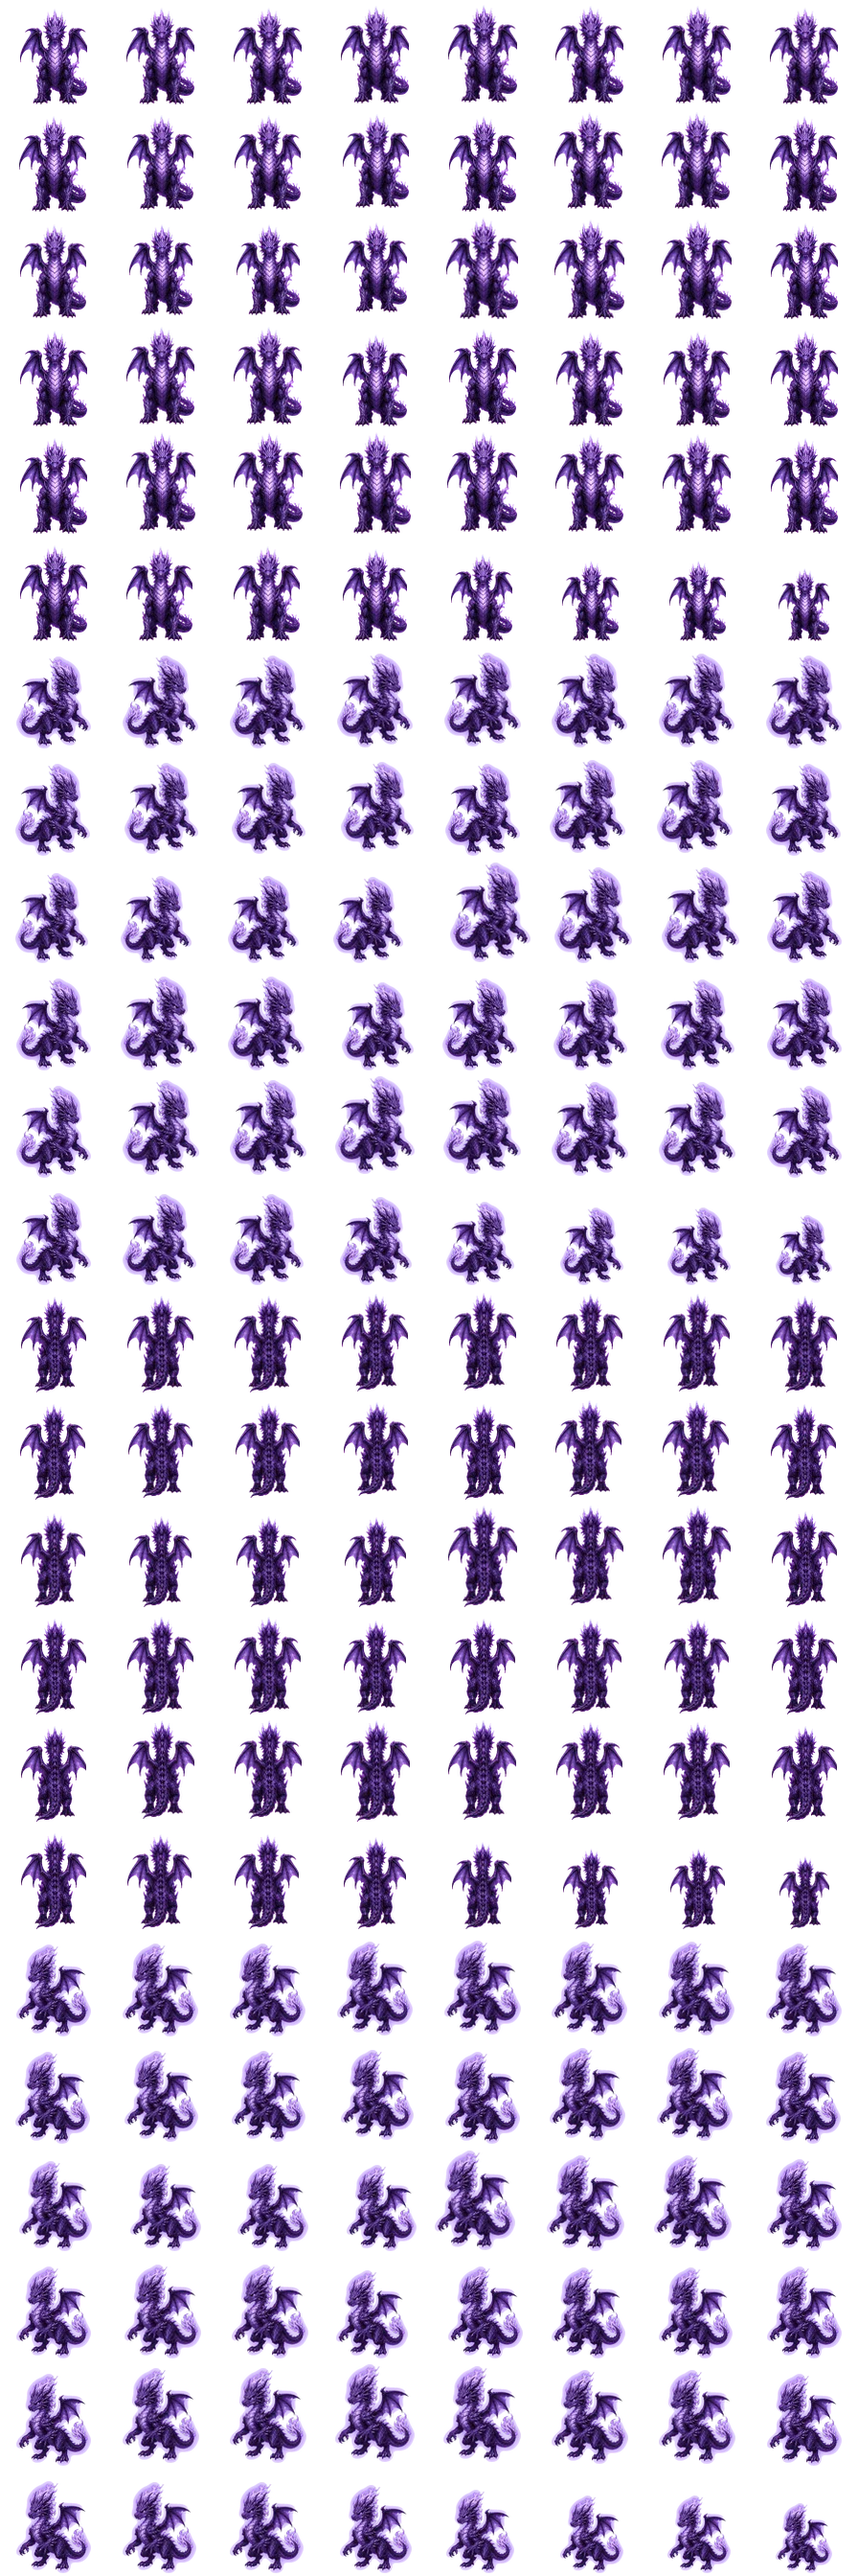
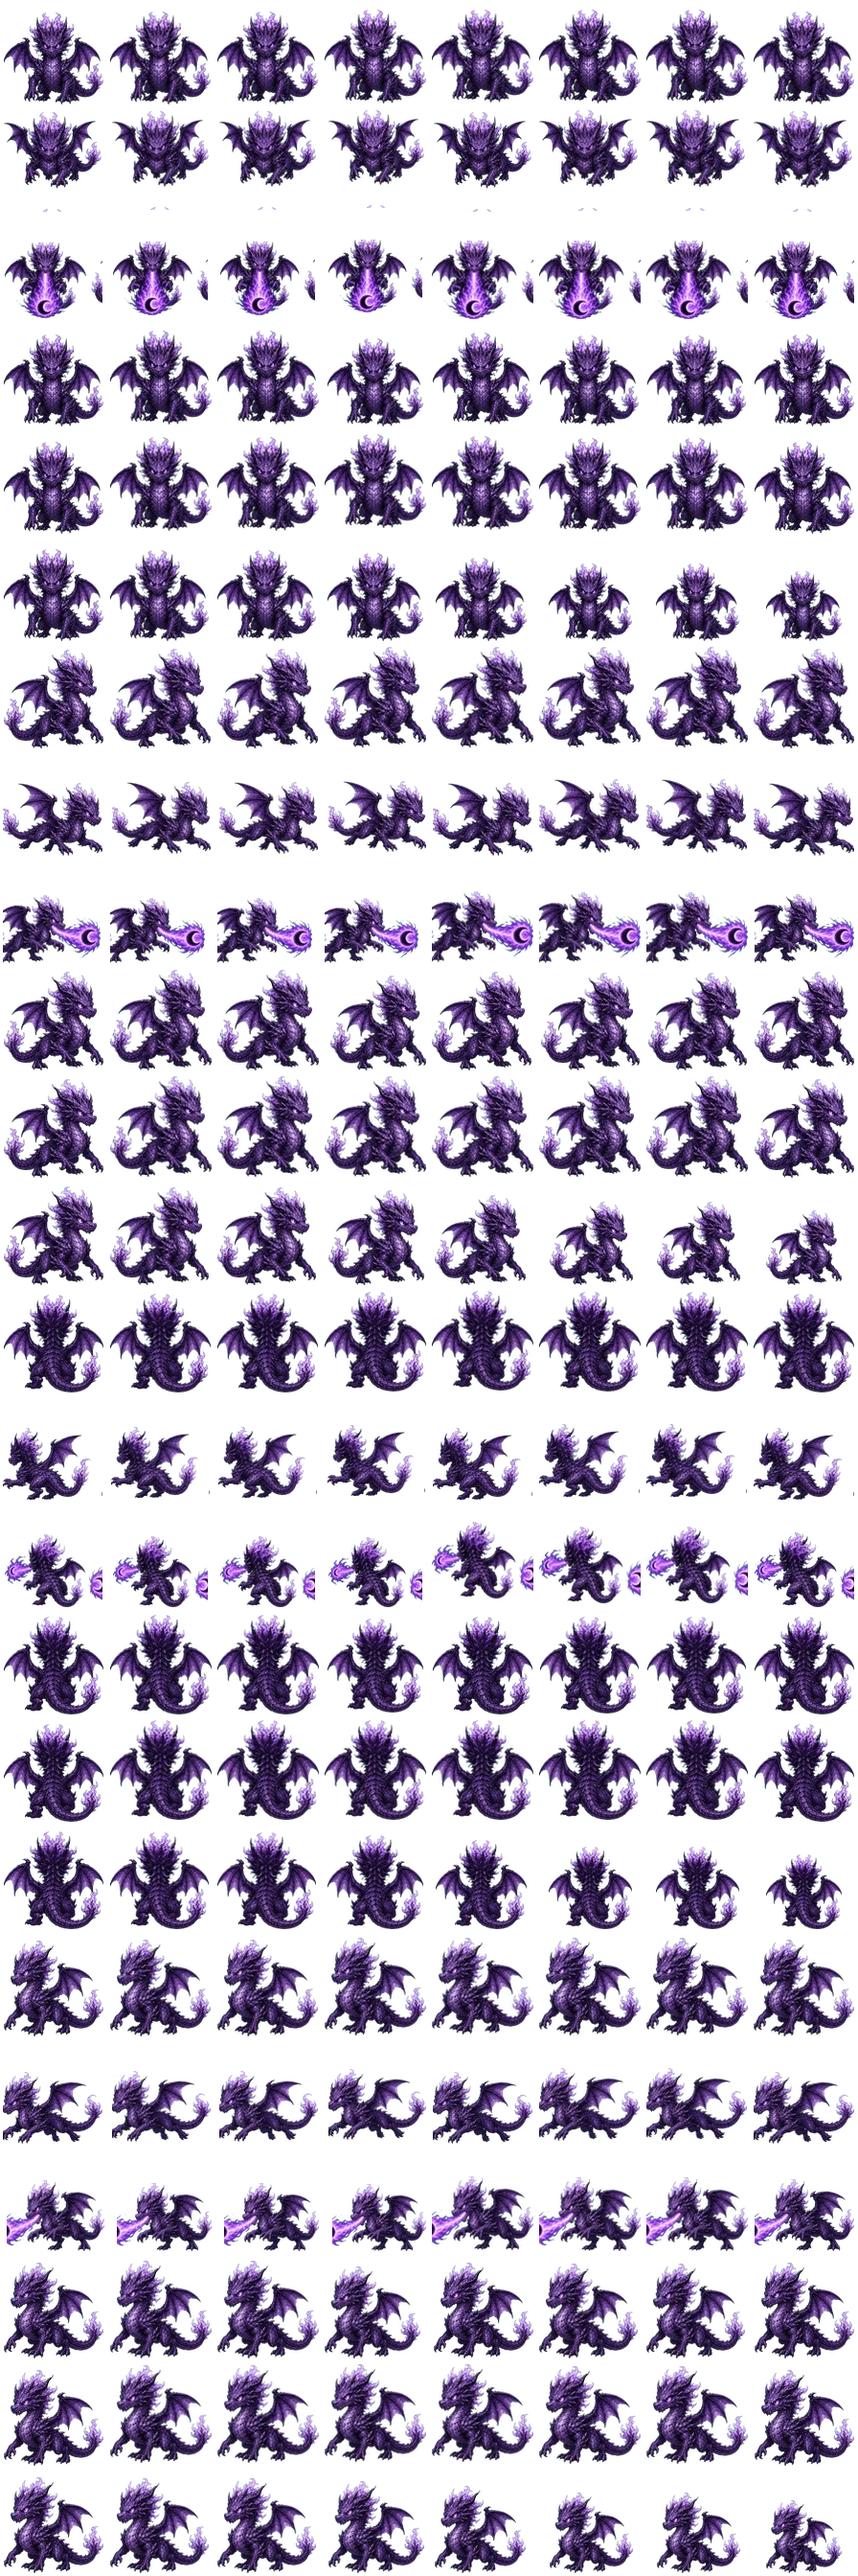
feat: add flagship phantom beast directions

diff --git a/assets/animations/directional/manifest.js b/assets/animations/directional/manifest.js
@@ -2901,12 +2901,14 @@ window.TACTICAL_MOTION_MANIFEST = {
         "hitFrame": null
       }
     },
-    "sourceType": "authored-front-back-and-approved-side",
-    "source": "assets/pets/crimson_dragon/evolution/stage_1.png",
-    "verticalViews": {
-      "down": "assets/animations/directional/views/crimson_dragon-front.png",
-      "up": "assets/animations/directional/views/crimson_dragon-back.png"
-    },
+    "sourceColumns": [
+      0,
+      1,
+      2,
+      3
+    ],
+    "sourceType": "authored-four-direction",
+    "source": "assets/animations/directional/sources/crimson_dragon-four-direction-reference-v1-alpha.png",
     "evolutionSheets": {
       "1": "assets/animations/directional/crimson_dragon-motion-4dir-sheet.webp",
       "2": "assets/animations/directional/crimson_dragon-stage_2-motion-4dir-sheet.webp",
@@ -3800,12 +3802,14 @@ window.TACTICAL_MOTION_MANIFEST = {
         "hitFrame": null
       }
     },
-    "sourceType": "authored-front-back-and-approved-side",
-    "source": "assets/pets/eclipse_dragon/evolution/stage_1.png",
-    "verticalViews": {
-      "down": "assets/animations/directional/views/eclipse_dragon-front.png",
-      "up": "assets/animations/directional/views/eclipse_dragon-back.png"
-    },
+    "sourceColumns": [
+      0,
+      1,
+      2,
+      3
+    ],
+    "sourceType": "authored-four-direction",
+    "source": "assets/animations/directional/sources/eclipse_dragon-four-direction-reference-v1-alpha.png",
     "evolutionSheets": {
       "1": "assets/animations/directional/eclipse_dragon-motion-4dir-sheet.webp",
       "2": "assets/animations/directional/eclipse_dragon-stage_2-motion-4dir-sheet.webp",
@@ -4778,12 +4782,14 @@ window.TACTICAL_MOTION_MANIFEST = {
         "hitFrame": null
       }
     },
-    "sourceType": "authored-front-back-and-approved-side",
-    "source": "assets/pets/flame_emperor/evolution/stage_1.png",
-    "verticalViews": {
-      "down": "assets/animations/directional/views/flame_emperor-front.png",
-      "up": "assets/animations/directional/views/flame_emperor-back.png"
-    },
+    "sourceColumns": [
+      0,
+      1,
+      2,
+      3
+    ],
+    "sourceType": "authored-four-direction",
+    "source": "assets/animations/directional/sources/flame_emperor-four-direction-reference-v1-alpha.png",
     "evolutionSheets": {
       "1": "assets/animations/directional/flame_emperor-motion-4dir-sheet.webp",
       "2": "assets/animations/directional/flame_emperor-stage_2-motion-4dir-sheet.webp",
@@ -6323,12 +6329,14 @@ window.TACTICAL_MOTION_MANIFEST = {
         "hitFrame": null
       }
     },
-    "sourceType": "authored-front-back-and-approved-side",
-    "source": "assets/pets/gold_qilin/evolution/stage_1.png",
-    "verticalViews": {
-      "down": "assets/animations/directional/views/gold_qilin-front.png",
-      "up": "assets/animations/directional/views/gold_qilin-back.png"
-    },
+    "sourceColumns": [
+      0,
+      1,
+      2,
+      3
+    ],
+    "sourceType": "authored-four-direction",
+    "source": "assets/animations/directional/sources/gold_qilin-four-direction-reference-v1-alpha.png",
     "evolutionSheets": {
       "1": "assets/animations/directional/gold_qilin-motion-4dir-sheet.webp",
       "2": "assets/animations/directional/gold_qilin-stage_2-motion-4dir-sheet.webp",
@@ -12521,12 +12529,14 @@ window.TACTICAL_MOTION_MANIFEST = {
         "hitFrame": null
       }
     },
-    "sourceType": "authored-front-back-and-approved-side",
-    "source": "assets/pets/solar_phoenix/evolution/stage_1.png",
-    "verticalViews": {
-      "down": "assets/animations/directional/views/solar_phoenix-front.png",
-      "up": "assets/animations/directional/views/solar_phoenix-back.png"
-    },
+    "sourceColumns": [
+      0,
+      1,
+      2,
+      3
+    ],
+    "sourceType": "authored-four-direction",
+    "source": "assets/animations/directional/sources/solar_phoenix-four-direction-reference-v1-alpha.png",
     "evolutionSheets": {
       "1": "assets/animations/directional/solar_phoenix-motion-4dir-sheet.webp",
       "2": "assets/animations/directional/solar_phoenix-stage_2-motion-4dir-sheet.webp",

diff --git a/tactics.html b/tactics.html
@@ -79,6 +79,6 @@
   <div id="home-display-modal" class="deploy-modal" hidden><section class="deploy-dialog home-display-dialog" role="dialog" aria-modal="true" aria-labelledby="home-display-title"><div class="deploy-head"><div><p class="eyebrow">旗艦設定</p><h2 id="home-display-title">選擇機庫展示幻獸</h2></div><button class="close-deploy" data-close="home-display-modal" aria-label="關閉展示設定">×</button></div><p class="gacha-info">這五隻是首頁展示候選；更換展示不會影響你實際擁有或出戰的幻獸。</p><label class="home-display-mode"><input id="home-display-follow" type="checkbox"> 展示跟隨目前隊長</label><div id="home-display-grid" class="home-display-grid"></div></section></div>
   <div id="story-modal" class="deploy-modal story-modal" hidden><section class="deploy-dialog story-dialog" role="dialog" aria-modal="true" aria-labelledby="story-title"><div id="story-art" class="story-art"></div><div class="story-body"><p id="story-kicker" class="eyebrow"></p><p id="story-speaker" class="story-speaker"></p><h2 id="story-title"></h2><p id="story-copy"></p><button id="story-next" class="primary" type="button">繼續</button></div></section></div>
   <script>window.__consoleErrors=[];window.addEventListener('error',function(e){window.__consoleErrors.push(String(e.message||e.error));});window.addEventListener('unhandledrejection',function(e){window.__consoleErrors.push(String(e.reason));});</script>
-  <script src="js/data/pets.js"></script><script src="js/data/pets-lightdark.js?v=1"></script><script src="js/data/pets-pack.js?v=1"></script><script src="js/data/tactical-pets.js?v=8"></script><script src="js/data/tactical-enemies.js?v=5"></script><script src="js/data/map-terrain.js?v=1"></script><script src="js/data/tactical-content.js?v=11"></script><script src="js/data/story-content.js?v=3"></script><script src="js/data/animation-config.js?v=1"></script><script src="assets/animations/directional/manifest.js?v=3"></script><script src="js/core/TacticalProgression.js?v=12"></script><script src="js/core/TacticalAudio.js?v=2"></script><script src="js/tactics.js?v=62"></script>
+  <script src="js/data/pets.js"></script><script src="js/data/pets-lightdark.js?v=1"></script><script src="js/data/pets-pack.js?v=1"></script><script src="js/data/tactical-pets.js?v=8"></script><script src="js/data/tactical-enemies.js?v=5"></script><script src="js/data/map-terrain.js?v=1"></script><script src="js/data/tactical-content.js?v=11"></script><script src="js/data/story-content.js?v=3"></script><script src="js/data/animation-config.js?v=1"></script><script src="assets/animations/directional/manifest.js?v=4"></script><script src="js/core/TacticalProgression.js?v=12"></script><script src="js/core/TacticalAudio.js?v=2"></script><script src="js/tactics.js?v=63"></script>
 </body>
 </html>

diff --git a/js/tactics.js b/js/tactics.js
@@ -197,7 +197,7 @@
     var stage = Math.max(1, Math.min(3, Number(unit.evolution) || 1));
     var stagePortrait = unit.p.evolution[Math.min(stage, unit.p.evolution.length) - 1]?.portrait || '';
     var stageSuffix = stage > 1 && stagePortrait.indexOf('assets/pets/' + unit.id + '/evolution/stage_' + stage + '.png') === 0 ? '-stage_' + stage : '';
-    return '../assets/animations/directional/' + unit.id + stageSuffix + '-motion-4dir-sheet.webp?v=27';
+    return '../assets/animations/directional/' + unit.id + stageSuffix + '-motion-4dir-sheet.webp?v=28';
   }
   function motionManifestEntry(unit) { return (window.TACTICAL_MOTION_MANIFEST || {})[unit.id] || {}; }
   function animationSpec(unit, action, override) {

diff --git a/scripts/build-four-direction-motion.py b/scripts/build-four-direction-motion.py
@@ -298,10 +298,13 @@ def main() -> None:
     legacy_manifest = json.loads((LEGACY_DIR / "manifest.json").read_text(encoding="utf-8"))
     for unit_id in sorted(legacy_manifest):
         portrait_path = stage_one_portrait(unit_id)
-        if unit_id in SIZE2_IDS and portrait_path:
-            manifest[unit_id] = build_size2_stage_one(unit_id, portrait_path)
-        elif unit_id in authored_sources:
+        # A newly approved full four-direction sheet supersedes the older
+        # size-2 front/back composition.  Keep that fallback only for units
+        # which do not yet have a native four-direction source.
+        if unit_id in authored_sources:
             manifest[unit_id] = build_reference(unit_id, authored_sources[unit_id])
+        elif unit_id in SIZE2_IDS and portrait_path:
+            manifest[unit_id] = build_size2_stage_one(unit_id, portrait_path)
         else:
             manifest[unit_id] = build_legacy(unit_id, LEGACY_DIR / f"{unit_id}-motion-sheet.webp")
         manifest[unit_id]["evolutionSheets"] = {"1": manifest[unit_id]["file"]}

diff --git a/docs/AI交接－四方向原生動作補繪待辦.md b/docs/AI交接－四方向原生動作補繪待辦.md
@@ -1,0 +1,149 @@
+# AI 交接－四方向原生動作補繪待辦
+
+更新日期：2026-07-22
+專案：JOSE｜幻獸戰棋
+目前目標：把所有仍為「延伸上下方向」的戰鬥單位，逐隻改為真正原生的前／後／左／右動作來源，並直接導入遊戲戰鬥。
+
+## 已完成
+
+下列單位已完成「原生四方向參考圖 → 透明去背 → 遊戲動作圖集」完整流程，已可在戰鬥中依移動與攻擊方向播放：
+
+1. `forest_deer`｜森靈鹿
+   - 來源：`assets/animations/directional/sources/forest_deer-four-direction-reference-v2-alpha.png`
+2. `rotcap_rootling`｜腐帽根靈
+   - 來源：`assets/animations/directional/sources/rotcap_rootling-four-direction-reference-v1-alpha.png`
+3. `dryad_thorn`｜荊棘乾靈
+   - 來源：`assets/animations/directional/sources/dryad_thorn-four-direction-reference-v1-alpha.png`
+4. `ent_sapling`｜樹靈幼苗
+   - 來源：`assets/animations/directional/sources/ent_sapling-four-direction-reference-v1-alpha.png`
+5. `venom_mantis`｜毒刃螳螂
+   - 來源：`assets/animations/directional/sources/venom_mantis-four-direction-reference-v1-alpha.png`
+6. `blightwood_sovereign`｜腐菌樹王（Boss）
+   - 來源：`assets/animations/directional/sources/blightwood_sovereign-four-direction-reference-v1-alpha.png`
+7. `gold_qilin`｜耀金麒麟（我方 2×2 幻獸）
+   - 來源：`assets/animations/directional/sources/gold_qilin-four-direction-reference-v1-alpha.png`
+8. `solar_phoenix`｜聖陽鳳凰（我方 2×2 幻獸）
+   - 來源：`assets/animations/directional/sources/solar_phoenix-four-direction-reference-v1-alpha.png`
+9. `eclipse_dragon`｜蝕月黑龍（我方 2×2 幻獸）
+   - 來源：`assets/animations/directional/sources/eclipse_dragon-four-direction-reference-v1-alpha.png`
+10. `flame_emperor`｜炎帝獸（我方 2×2 幻獸）
+    - 來源：`assets/animations/directional/sources/flame_emperor-four-direction-reference-v1-alpha.png`
+11. `crimson_dragon`｜赤炎神龍（我方 2×2 幻獸）
+    - 來源：`assets/animations/directional/sources/crimson_dragon-four-direction-reference-v1-alpha.png`
+
+最近一次完整重建及驗證已通過：
+
+- 310 張單位／進化動作圖集已重建。
+- `python scripts/check-directional-frame-bounds.py`：180 單位、34,560 個 runtime WebP 動作格通過。
+- `npm.cmd run lint`：通過。
+- 五隻旗艦幻獸均已驗證為 `authored-four-direction`，會優先使用新原生方向稿而不再回退到舊的 2×2 前後合成版本。
+
+## 剩餘工作量
+
+目前來源統計：
+
+| 類型 | 數量 | 說明 |
+| --- | ---: | --- |
+| `authored-four-direction` | 20 | 已有真正前後左右原生參考圖。 |
+| `authored-front-back-and-approved-side` | 25 | 已有可用前後參考與核准側面，不是本輪優先。 |
+| `derived-from-approved-motion` | **135** | 本輪待補繪目標。 |
+
+不要手動維護 140 隻清單。每次開工請以 manifest 即時列出：
+
+```powershell
+$m = Get-Content -Raw -Encoding utf8 assets\animations\directional\manifest.json | ConvertFrom-Json
+$m.psobject.Properties | Where-Object { $_.Value.sourceType -eq 'derived-from-approved-motion' } |
+  ForEach-Object Name | Sort-Object
+```
+
+## 建議補繪順序
+
+原則：先讓玩家最早看見、且主線第 1～11 章實際上場的單位完成；其次是大型 Boss；最後才是無限塔／Boss 來襲專用名冊。
+
+### 我方旗艦幻獸（已完成）
+
+`gold_qilin`｜耀金麒麟、`solar_phoenix`｜聖陽鳳凰、`eclipse_dragon`｜蝕月黑龍、`flame_emperor`｜炎帝獸、`crimson_dragon`｜赤炎神龍皆已完成真正原生前／右／後／左動作來源。
+
+### 第一章完成狀態
+
+`blightwood_sovereign`｜腐菌樹王（Boss）已完成真正原生前後左右動作圖；第一章第 1～10 關、Boss 與四個 HARD 關卡實際出場的 `forest_deer`、`rotcap_rootling`、`dryad_thorn`、`ent_sapling`、`venom_mantis` 皆無須再產圖。
+
+後續章節請依 `js/data/tactical-content.js` 中各章 `minions`、`boss` 取順序，不要只依檔名字母排序。
+
+## 每隻單位的標準流程（不可省略）
+
+### 1. 讀取身份參考圖
+
+- 幻獸優先：`assets/pets/<unit_id>/evolution/stage_1.png`
+- 魔獸優先：`assets/enemies/<unit_id>.png`
+- 先用 `view_image` 檢視，確認角色的元素、武器／肢體、輪廓與畫風。
+
+### 2. 用 image generation 製作「4×3 原生四方向參考圖」
+
+只能用同一角色，嚴格要求：
+
+- 欄（左至右）：`down/front`、`right`、`up/back`、`left`。
+- 列（上至下）：`idle`、`move`、`attack`。
+- 背景必須是**純色 `#ff00ff`**，無格線、文字、陰影、地板或邊框。
+- 攻擊特效只能用該單位的元素，不能使用洋紅色。
+- 每格角色完整入鏡，頭、角、翼、尾、武器與特效不可碰格邊。
+- 用現有立繪當身份 reference；產圖後務必用 `view_image` 人工檢查前／後視角與左右是否清楚。
+
+### 3. 導入原圖與透明版
+
+不得覆寫舊版。使用新版本號：
+
+```text
+assets/animations/directional/sources/<unit_id>-four-direction-reference-vN.png
+assets/animations/directional/sources/<unit_id>-four-direction-reference-vN-alpha.png
+```
+
+使用內建去背工具移除洋紅背景：
+
+```powershell
+python C:\Users\User\.codex\skills\.system\imagegen\scripts\remove_chroma_key.py `
+  --input assets\animations\directional\sources\<unit_id>-four-direction-reference-vN.png `
+  --out assets\animations\directional\sources\<unit_id>-four-direction-reference-vN-alpha.png `
+  --auto-key border --soft-matte --transparent-threshold 12 --opaque-threshold 220 --despill
+```
+
+完成後再次用 `view_image` 檢查透明邊緣沒有洋紅殘色。
+
+### 4. 以批次方式重建遊戲動作圖
+
+累積約 3～8 隻後再跑一次，避免不必要重建。不可同時啟動兩個重建程序：
+
+```powershell
+python scripts\build-four-direction-motion.py
+```
+
+注意：此程序會清除後重建 `assets/animations/directional/*-motion-4dir-sheet.webp` 與 manifest，約需數分鐘。若終端命令逾時，先用 `Get-CimInstance Win32_Process` 確認 Python 程序是否仍在跑；**不要重複啟動**。
+
+重建程式已改為同一單位自動採用最高數字版本的 `vN-alpha.png`，不會誤用舊版。
+
+### 5. 必跑驗證
+
+```powershell
+python scripts\check-directional-frame-bounds.py
+npm.cmd run lint
+npm.cmd test
+```
+
+需確認：
+
+- manifest 中該單位 `sourceType` 變成 `authored-four-direction`。
+- `source` 指向新產出的 `vN-alpha.png`。
+- 動作邊界檢查為 34,560 格通過。
+- 若這批涉及戰鬥流程或 CSS，再跑 `npm.cmd run test:browser`。
+
+## 相關檔案與注意事項
+
+- 動作重建：`scripts/build-four-direction-motion.py`
+- 邊界檢查：`scripts/check-directional-frame-bounds.py`
+- 動作清單：`assets/animations/directional/manifest.json`、`manifest.js`
+- 規格：`docs/幻獸與魔獸四方向六幀動作圖規格.md`
+- 戰鬥 runtime：`js/tactics.js`
+
+本工作區原本就有其他未提交的 UI、劇情與戰鬥改動。接手者只能處理本待辦相關檔案，不可用 `git reset --hard`、`git checkout --` 或大範圍還原。
+
+本輪沒有授權部署、提交或推送；完成一個可驗證批次後，先回報素材清單與測試結果。
